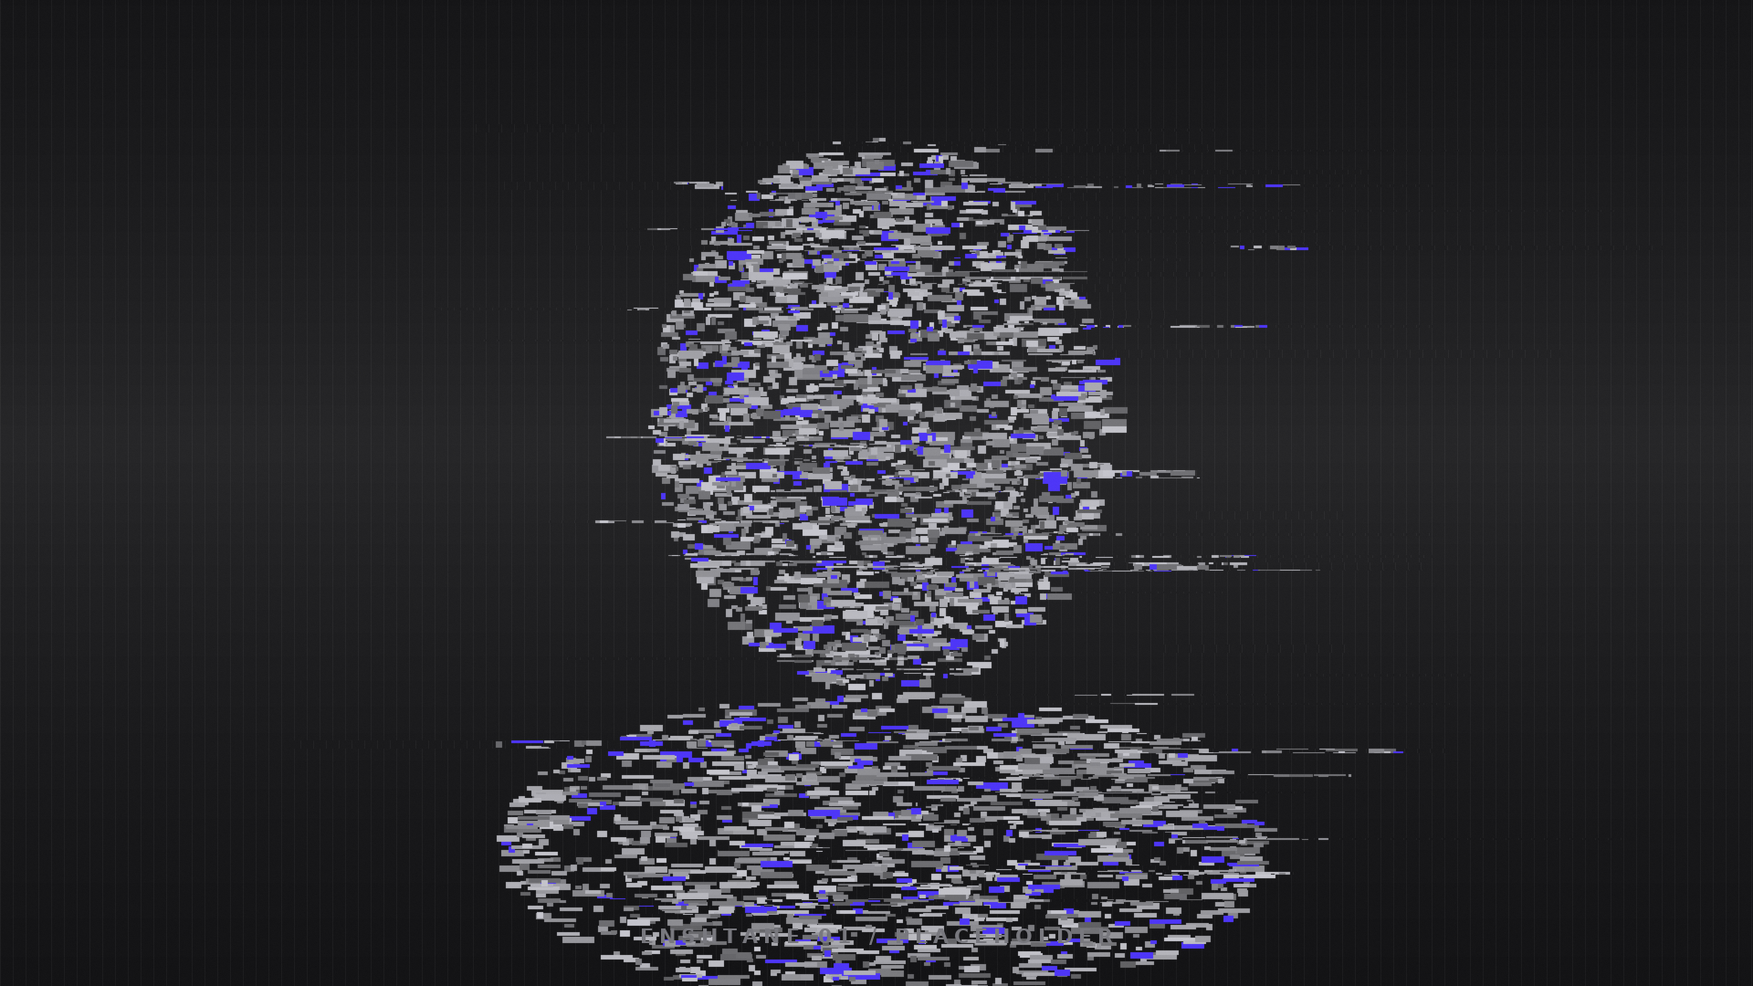
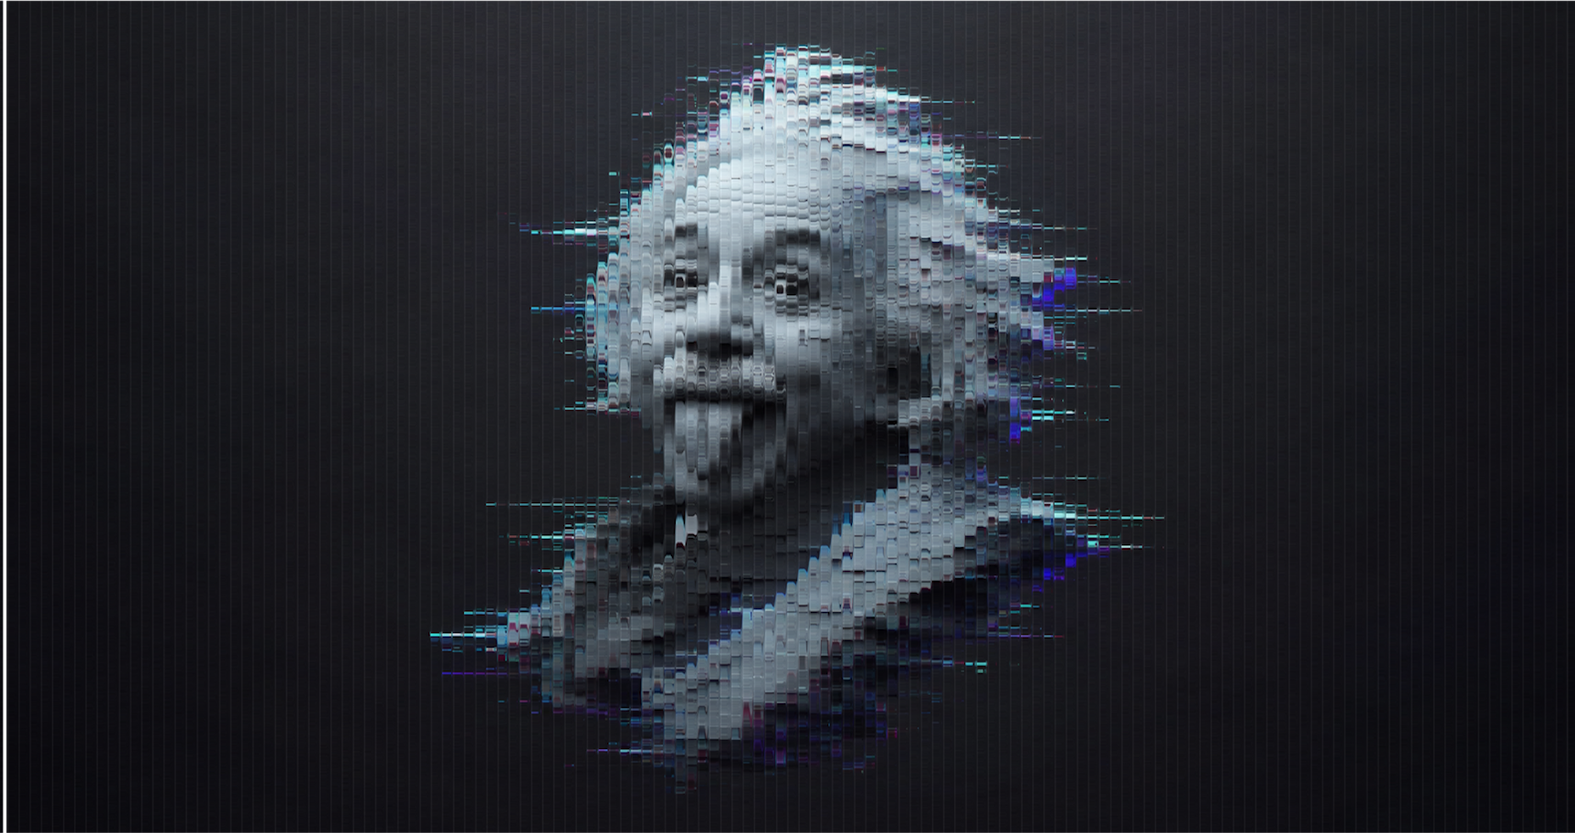
Подключены настоящие ассеты: Эйнштейн, логотип и фото жюри
- Загруженные файлы переименованы на пути без пробелов (enshtane-01/02, logo).
- Герой: заголовок опущен вниз, кегль уменьшен — лицо на портрете больше не
  перекрывается; вуаль под текстом стала градиентом снизу вверх.
- Жюри: карточки перестроены под реальные PNG с неоновой рамкой — имена
  выводятся текстом прямо в белой плашке (--plate-y / --plate-w), квадратные
  снимки выровнены по высоте с landscape (--img-w), duotone-фильтр убран.
- «О фестивале»: логотип-плёнка выводится через mix-blend-mode: screen,
  чёрный фон файла выпадает.
- Генератор заглушек больше не перезаписывает настоящие картинки; мини-логотип
  в шапке перерисован в читаемый на 46px знак (ждёт Logo Mini white.png).

Claude-Session: https://claude.ai/code/session_013dkFxpe1GdjTqfLcTByuE2

diff --git a/assets/css/site.css b/assets/css/site.css
@@ -375,8 +375,8 @@ body.menu-open .burger i:nth-child(2) {
   position: relative;
   min-height: 100svh;
   display: grid;
-  place-items: center;
-  padding: clamp(6rem, 12vh, 9rem) var(--pad) clamp(3rem, 8vh, 6rem);
+  place-items: end center; /* заголовок внизу, лицо на картинке остаётся открытым */
+  padding: clamp(6rem, 12vh, 9rem) var(--pad) clamp(4.5rem, 11vh, 8rem);
   isolation: isolate;
   background: radial-gradient(120% 90% at 50% 40%, #131318 0%, var(--ink) 62%);
 }
@@ -449,11 +449,12 @@ body.menu-open .burger i:nth-child(2) {
   inset: 0;
   z-index: 2;
   pointer-events: none;
-  background: radial-gradient(
-    62% 48% at 50% 52%,
-    rgba(8, 8, 10, 0.62) 0%,
-    rgba(8, 8, 10, 0.3) 55%,
-    rgba(8, 8, 10, 0) 100%
+  background: linear-gradient(
+    to top,
+    rgba(8, 8, 10, 0.88) 0%,
+    rgba(8, 8, 10, 0.55) 26%,
+    rgba(8, 8, 10, 0.12) 52%,
+    rgba(8, 8, 10, 0) 70%
   );
 }
 
@@ -507,7 +508,7 @@ body.menu-open .burger i:nth-child(2) {
   text-transform: uppercase;
   letter-spacing: -0.055em;
   line-height: 0.82;
-  font-size: clamp(3.4rem, 16.5vw, 17rem);
+  font-size: clamp(3rem, 11.5vw, 12rem);
   margin: 0;
   text-shadow: 0 0 60px rgba(8, 8, 10, 0.55);
   display: flex;
@@ -651,11 +652,11 @@ body.menu-open .burger i:nth-child(2) {
   position: absolute;
   top: 50%;
   left: 50%;
-  width: min(120vh, 96vw);
+  width: min(150vh, 110vw);
   translate: -50% -50%;
-  opacity: 0.09;
+  opacity: 0.32;
   pointer-events: none;
-  filter: grayscale(1);
+  mix-blend-mode: screen; /* чёрный фон логотипа выпадает, светится только плёнка */
   will-change: transform;
 }
 .about__grid {
@@ -819,59 +820,53 @@ body.menu-open .burger i:nth-child(2) {
 /* --- Жюри ----------------------------------------------------------------- */
 .jury__grid {
   display: grid;
-  grid-template-columns: repeat(auto-fit, minmax(220px, 1fr));
-  gap: clamp(1rem, 2.4vw, 2.2rem);
+  grid-template-columns: repeat(auto-fit, minmax(340px, 1fr));
+  gap: clamp(1rem, 2.4vw, 2.4rem);
   margin-top: clamp(2rem, 5vw, 4rem);
+  align-items: start;
 }
+
+/* Карточка жюри: имя ложится прямо в белую плашку внутри картинки.
+   --plate-y — центр плашки по вертикали, --plate-w — её ширина.
+   Значения замерены по каждому файлу; при замене картинки поправьте их
+   в атрибуте style у нужной карточки. */
 .juror {
   position: relative;
+  margin: 0;
 }
+/* --img-w выравнивает высоту карточек: квадратные снимки уже landscape-овых */
 .juror__ph {
   position: relative;
   overflow: hidden;
-  aspect-ratio: 4 / 5;
-  background: var(--ink-2);
+  width: var(--img-w, 100%);
+  margin-inline: auto;
+  container-type: inline-size;
 }
 .juror__ph img {
   width: 100%;
-  height: 100%;
-  object-fit: cover;
-  filter: grayscale(1) contrast(1.15);
-  transition: filter 0.6s var(--ease), transform 0.9s var(--ease);
-}
-.juror__ph::after {
-  content: '';
-  position: absolute;
-  inset: 0;
-  background: var(--accent);
-  mix-blend-mode: color;
-  opacity: 0.55;
-  transition: opacity 0.6s var(--ease);
+  height: auto;
+  transition: transform 0.9s var(--ease), filter 0.6s var(--ease);
+  filter: saturate(0.92);
 }
 .juror:hover .juror__ph img {
-  filter: grayscale(0) contrast(1);
-  transform: scale(1.05);
+  transform: scale(1.03);
+  filter: saturate(1.1);
 }
-.juror:hover .juror__ph::after {
-  opacity: 0;
-}
-.juror__name {
-  display: flex;
-  justify-content: space-between;
-  align-items: baseline;
-  gap: 1rem;
-  margin-top: 0.9rem;
-  font-weight: 700;
+.juror__plate {
+  position: absolute;
+  top: var(--plate-y, 70%);
+  left: 50%;
+  translate: -50% -50%;
+  width: var(--plate-w, 70%);
+  text-align: center;
+  color: var(--ink);
+  font-weight: 900;
   text-transform: uppercase;
-  letter-spacing: -0.02em;
-  font-size: clamp(0.9rem, 1.3vw, 1.15rem);
-}
-.juror__name i {
-  font-family: var(--mono);
-  font-style: normal;
-  font-size: 0.62rem;
-  letter-spacing: 0.2em;
-  opacity: 0.45;
+  line-height: 1.02;
+  letter-spacing: -0.025em;
+  font-size: clamp(0.68rem, 6.2cqw, 1.7rem);
+  text-wrap: balance;
+  pointer-events: none;
 }
 
 /* --- Кнопки --------------------------------------------------------------- */
@@ -1390,6 +1385,12 @@ body.menu-open .burger i:nth-child(2) {
   }
   .hero__meta > *:last-child {
     display: none;
+  }
+}
+
+@media (max-width: 640px) {
+  .hero__title {
+    font-size: clamp(3.2rem, 17vw, 6rem);
   }
 }
 

diff --git a/index.html b/index.html
@@ -230,26 +230,21 @@
           </div>
 
           <div class="jury__grid">
-            <figure class="juror reveal" style="--delay: 0ms">
-              <div class="juror__ph"><img src="./assets/img/jury/bashilov.png" alt="Башилов Александр" width="800" height="1000" loading="lazy" /></div>
-              <figcaption class="juror__name">Башилов Александр <i>01</i></figcaption>
-            </figure>
-            <figure class="juror reveal" style="--delay: 80ms">
-              <div class="juror__ph"><img src="./assets/img/jury/bluket.png" alt="Василика Блукет" width="800" height="1000" loading="lazy" /></div>
-              <figcaption class="juror__name">Василика Блукет <i>02</i></figcaption>
-            </figure>
-            <figure class="juror reveal" style="--delay: 160ms">
-              <div class="juror__ph"><img src="./assets/img/jury/gavrilov.png" alt="Александр Гаврилов" width="800" height="1000" loading="lazy" /></div>
-              <figcaption class="juror__name">Александр Гаврилов <i>03</i></figcaption>
-            </figure>
-            <figure class="juror reveal" style="--delay: 240ms">
-              <div class="juror__ph"><img src="./assets/img/jury/khaletskiy.png" alt="Кирилл Халетский" width="800" height="1000" loading="lazy" /></div>
-              <figcaption class="juror__name">Кирилл Халетский <i>04</i></figcaption>
-            </figure>
-            <figure class="juror reveal" style="--delay: 320ms">
-              <div class="juror__ph"><img src="./assets/img/jury/trifonov.png" alt="Александр Трифонов" width="800" height="1000" loading="lazy" /></div>
-              <figcaption class="juror__name">Александр Трифонов <i>05</i></figcaption>
-            </figure>
+            <div class="juror reveal" style="--delay: 0ms; --img-w: 67%; --plate-y: 70.4%; --plate-w: 75%">
+              <div class="juror__ph"><img src="./assets/img/jury/bashilov.png" alt="Башилов Александр" width="1254" height="1254" loading="lazy" /><span class="juror__plate">Башилов Александр</span></div>
+            </div>
+            <div class="juror reveal" style="--delay: 80ms; --plate-y: 69.6%; --plate-w: 57%">
+              <div class="juror__ph"><img src="./assets/img/jury/bluket.png" alt="Василика Блукет" width="1536" height="1024" loading="lazy" /><span class="juror__plate">Василика Блукет</span></div>
+            </div>
+            <div class="juror reveal" style="--delay: 160ms; --plate-y: 71.9%; --plate-w: 60%">
+              <div class="juror__ph"><img src="./assets/img/jury/gavrilov.png" alt="Александр Гаврилов" width="1536" height="1024" loading="lazy" /><span class="juror__plate">Александр Гаврилов</span></div>
+            </div>
+            <div class="juror reveal" style="--delay: 240ms; --plate-y: 71.8%; --plate-w: 64%">
+              <div class="juror__ph"><img src="./assets/img/jury/khaletskiy.png" alt="Кирилл Халетский" width="1536" height="1024" loading="lazy" /><span class="juror__plate">Кирилл Халетский</span></div>
+            </div>
+            <div class="juror reveal" style="--delay: 320ms; --img-w: 67%; --plate-y: 70.4%; --plate-w: 76%">
+              <div class="juror__ph"><img src="./assets/img/jury/trifonov.png" alt="Александр Трифонов" width="1254" height="1254" loading="lazy" /><span class="juror__plate">Александр Трифонов</span></div>
+            </div>
           </div>
         </div>
       </section>

diff --git a/en/index.html b/en/index.html
@@ -231,26 +231,21 @@
           </div>
 
           <div class="jury__grid">
-            <figure class="juror reveal" style="--delay: 0ms">
-              <div class="juror__ph"><img src="../assets/img/jury/bashilov.png" alt="Alexander Bashilov" width="800" height="1000" loading="lazy" /></div>
-              <figcaption class="juror__name">Alexander Bashilov <i>01</i></figcaption>
-            </figure>
-            <figure class="juror reveal" style="--delay: 80ms">
-              <div class="juror__ph"><img src="../assets/img/jury/bluket.png" alt="Vasilika Bluket" width="800" height="1000" loading="lazy" /></div>
-              <figcaption class="juror__name">Vasilika Bluket <i>02</i></figcaption>
-            </figure>
-            <figure class="juror reveal" style="--delay: 160ms">
-              <div class="juror__ph"><img src="../assets/img/jury/gavrilov.png" alt="Alexander Gavrilov" width="800" height="1000" loading="lazy" /></div>
-              <figcaption class="juror__name">Alexander Gavrilov <i>03</i></figcaption>
-            </figure>
-            <figure class="juror reveal" style="--delay: 240ms">
-              <div class="juror__ph"><img src="../assets/img/jury/khaletskiy.png" alt="Kirill Khaletskiy" width="800" height="1000" loading="lazy" /></div>
-              <figcaption class="juror__name">Kirill Khaletskiy <i>04</i></figcaption>
-            </figure>
-            <figure class="juror reveal" style="--delay: 320ms">
-              <div class="juror__ph"><img src="../assets/img/jury/trifonov.png" alt="Alexander Trifonov" width="800" height="1000" loading="lazy" /></div>
-              <figcaption class="juror__name">Alexander Trifonov <i>05</i></figcaption>
-            </figure>
+            <div class="juror reveal" style="--delay: 0ms; --img-w: 67%; --plate-y: 70.4%; --plate-w: 75%">
+              <div class="juror__ph"><img src="../assets/img/jury/bashilov.png" alt="Alexander Bashilov" width="1254" height="1254" loading="lazy" /><span class="juror__plate">Alexander Bashilov</span></div>
+            </div>
+            <div class="juror reveal" style="--delay: 80ms; --plate-y: 69.6%; --plate-w: 57%">
+              <div class="juror__ph"><img src="../assets/img/jury/bluket.png" alt="Vasilika Bluket" width="1536" height="1024" loading="lazy" /><span class="juror__plate">Vasilika Bluket</span></div>
+            </div>
+            <div class="juror reveal" style="--delay: 160ms; --plate-y: 71.9%; --plate-w: 60%">
+              <div class="juror__ph"><img src="../assets/img/jury/gavrilov.png" alt="Alexander Gavrilov" width="1536" height="1024" loading="lazy" /><span class="juror__plate">Alexander Gavrilov</span></div>
+            </div>
+            <div class="juror reveal" style="--delay: 240ms; --plate-y: 71.8%; --plate-w: 64%">
+              <div class="juror__ph"><img src="../assets/img/jury/khaletskiy.png" alt="Kirill Khaletskiy" width="1536" height="1024" loading="lazy" /><span class="juror__plate">Kirill Khaletskiy</span></div>
+            </div>
+            <div class="juror reveal" style="--delay: 320ms; --img-w: 67%; --plate-y: 70.4%; --plate-w: 76%">
+              <div class="juror__ph"><img src="../assets/img/jury/trifonov.png" alt="Alexander Trifonov" width="1254" height="1254" loading="lazy" /><span class="juror__plate">Alexander Trifonov</span></div>
+            </div>
           </div>
         </div>
       </section>

diff --git a/tools/make_placeholders.py b/tools/make_placeholders.py
@@ -188,6 +188,36 @@ def logo(path: Path, size: int, mini: bool):
     print("→", path.relative_to(ROOT))
 
 
+def logo_mini(path: Path, size: int):
+    """Компактный белый знак для шапки — временная замена Logo Mini white.png."""
+    s = size * 4
+    img = Image.new("RGBA", (s, s), (0, 0, 0, 0))
+    d = ImageDraw.Draw(img)
+    white = (255, 255, 255, 255)
+    stroke = max(2, s // 42)
+
+    x0, y0, x1, y1 = s * 0.06, s * 0.22, s * 0.94, s * 0.78
+    d.rounded_rectangle([x0, y0, x1, y1], radius=s * 0.05, outline=white, width=stroke)
+
+    hole = s * 0.052
+    band = (y1 - y0) * 0.20
+    for i in range(5):  # перфорация сверху и снизу
+        cx = x0 + (x1 - x0) * (0.14 + 0.18 * i)
+        for cy in (y0 + band, y1 - band):
+            d.rounded_rectangle(
+                [cx - hole / 2, cy - hole / 2, cx + hole / 2, cy + hole / 2],
+                radius=hole * 0.25,
+                fill=white,
+            )
+
+    r = s * 0.115  # объектив по центру
+    cx, cy = s / 2, (y0 + y1) / 2
+    d.ellipse([cx - r, cy - r, cx + r, cy + r], fill=white)
+
+    img.resize((size, size), Image.LANCZOS).save(path)
+    print("→", path.relative_to(ROOT))
+
+
 def jury_card(path: Path, initials: str, seed: int):
     """Duotone-заглушка портрета жюри 800×1000."""
     w, h = 800, 1000
@@ -225,13 +255,19 @@ def jury_card(path: Path, initials: str, seed: int):
 
 
 def main():
+    """Генерирует только те заглушки, которых ещё нет: настоящие файлы не трогаем.
+    Чтобы перерисовать заглушку, удалите её и запустите скрипт снова."""
     IMG.mkdir(parents=True, exist_ok=True)
     JURY.mkdir(parents=True, exist_ok=True)
 
-    enshtane(IMG / "enshtane-01.png", seed=11, accent=BLUE, bright=205, label="ENSHTANE 01 / PLACEHOLDER")
-    enshtane(IMG / "enshtane-02.png", seed=29, accent=ACCENT, bright=150, label="ENSHTANE 02 / PLACEHOLDER")
-    logo(IMG / "logo.png", 1400, mini=False)
-    logo(IMG / "logo-mini-white.png", 320, mini=True)
+    if not (IMG / "enshtane-01.png").exists():
+        enshtane(IMG / "enshtane-01.png", seed=11, accent=BLUE, bright=205, label="ENSHTANE 01 / PLACEHOLDER")
+    if not (IMG / "enshtane-02.png").exists():
+        enshtane(IMG / "enshtane-02.png", seed=29, accent=ACCENT, bright=150, label="ENSHTANE 02 / PLACEHOLDER")
+    if not (IMG / "logo.png").exists():
+        logo(IMG / "logo.png", 1400, mini=False)
+    if not (IMG / "logo-mini-white.png").exists():
+        logo_mini(IMG / "logo-mini-white.png", 320)
 
     for name, initials, seed in (
         ("bashilov", "АБ", 101),
@@ -240,7 +276,8 @@ def main():
         ("khaletskiy", "КХ", 404),
         ("trifonov", "АТ", 505),
     ):
-        jury_card(JURY / f"{name}.png", initials, seed)
+        if not (JURY / f"{name}.png").exists():
+            jury_card(JURY / f"{name}.png", initials, seed)
 
 
 if __name__ == "__main__":

diff --git a/README.md b/README.md
@@ -17,25 +17,40 @@
 | `assets/fonts/` | Шрифт Unbounded (кириллица + латиница), лежит локально |
 | `tools/make_placeholders.py` | Скрипт, которым сгенерированы временные картинки |
 
-## Как заменить картинки на настоящие
+## Картинки
 
-Сейчас в `assets/img/` лежат **временные заглушки**. Положите свои файлы по этим же
-путям с этими же именами — ничего в коде править не нужно:
+Файлы лежат в `assets/img/` под именами без пробелов — пробелы в путях ломают ссылки
+на некоторых хостингах. Чтобы обновить любую картинку, просто положите новую по тому
+же пути, код править не нужно.
 
-| Ваш файл | Куда положить | Рекомендуемый размер |
+| Ваш файл | Путь в проекте | Статус |
 | --- | --- | --- |
-| `Logo.png` | `assets/img/logo.png` | 1400 × 1400, PNG с прозрачным фоном |
-| `Logo Mini white.png` | `assets/img/logo-mini-white.png` | 320 × 320, PNG с прозрачным фоном |
-| `Enshtane 01.png` | `assets/img/enshtane-01.png` | 1920 × 1080 и больше |
-| `Enshtane 02.png` | `assets/img/enshtane-02.png` | тот же размер, что и 01 |
-| `bashilov.png` | `assets/img/jury/bashilov.png` | 800 × 1000 (вертикальные) |
-| `bluket.png` | `assets/img/jury/bluket.png` | 800 × 1000 |
-| `gavrilov.png` | `assets/img/jury/gavrilov.png` | 800 × 1000 |
-| `khaletskiy.png` | `assets/img/jury/khaletskiy.png` | 800 × 1000 |
-| `trifonov.png` | `assets/img/jury/trifonov.png` | 800 × 1000 |
+| `Logo.png` | `assets/img/logo.png` | настоящий |
+| `Enshtane 01.png` | `assets/img/enshtane-01.png` | настоящий |
+| `Enshtane 02.png` | `assets/img/enshtane-02.png` | настоящий |
+| `bashilov.png` | `assets/img/jury/bashilov.png` | настоящий |
+| `bluket.png` | `assets/img/jury/bluket.png` | настоящий |
+| `gavrilov.png` | `assets/img/jury/gavrilov.png` | настоящий |
+| `khaletskiy.png` | `assets/img/jury/khaletskiy.png` | настоящий |
+| `trifonov.png` | `assets/img/jury/trifonov.png` | настоящий |
+| `Logo Mini white.png` | `assets/img/logo-mini-white.png` | **заглушка**, ждём файл (320 × 320, прозрачный фон) |
 
-Имена файлов специально без пробелов: пробелы в путях ломают ссылки на некоторых
-хостингах.
+### Имена жюри внутри картинки
+
+Имя каждого члена жюри выводится текстом прямо в белой плашке на его карточке —
+это не часть изображения, а HTML. Положение плашки задаётся в `index.html`
+и `en/index.html` тремя переменными в атрибуте `style` карточки:
+
+```html
+<div class="juror reveal" style="--img-w: 67%; --plate-y: 70.4%; --plate-w: 75%">
+```
+
+- `--plate-y` — центр белой плашки по вертикали, в % от высоты картинки;
+- `--plate-w` — ширина текстового блока, в % от ширины картинки;
+- `--img-w` — ширина самой картинки в колонке; стоит только у квадратных снимков,
+  чтобы все карточки в ряду были одной высоты.
+
+Если замените фото жюри на другое — поправьте эти три числа у нужной карточки.
 
 ## Эффект на титульном экране
 
@@ -68,12 +83,12 @@ python3 -m http.server 8000
 Либо Source: **Deploy from a branch**, выбрать нужную ветку и папку `/ (root)` —
 файл `.nojekyll` в корне уже лежит.
 
-## Обновление временных картинок
+## Временные картинки
 
 ```bash
 pip install pillow
 python3 tools/make_placeholders.py
 ```
 
-Скрипт перезаписывает заглушки в `assets/img/`. Если настоящие картинки уже на месте —
-запускать его не нужно.
+Скрипт создаёт заглушку только там, где файла ещё нет, — настоящие картинки он не
+трогает. Чтобы перерисовать заглушку, удалите её и запустите скрипт снова.
